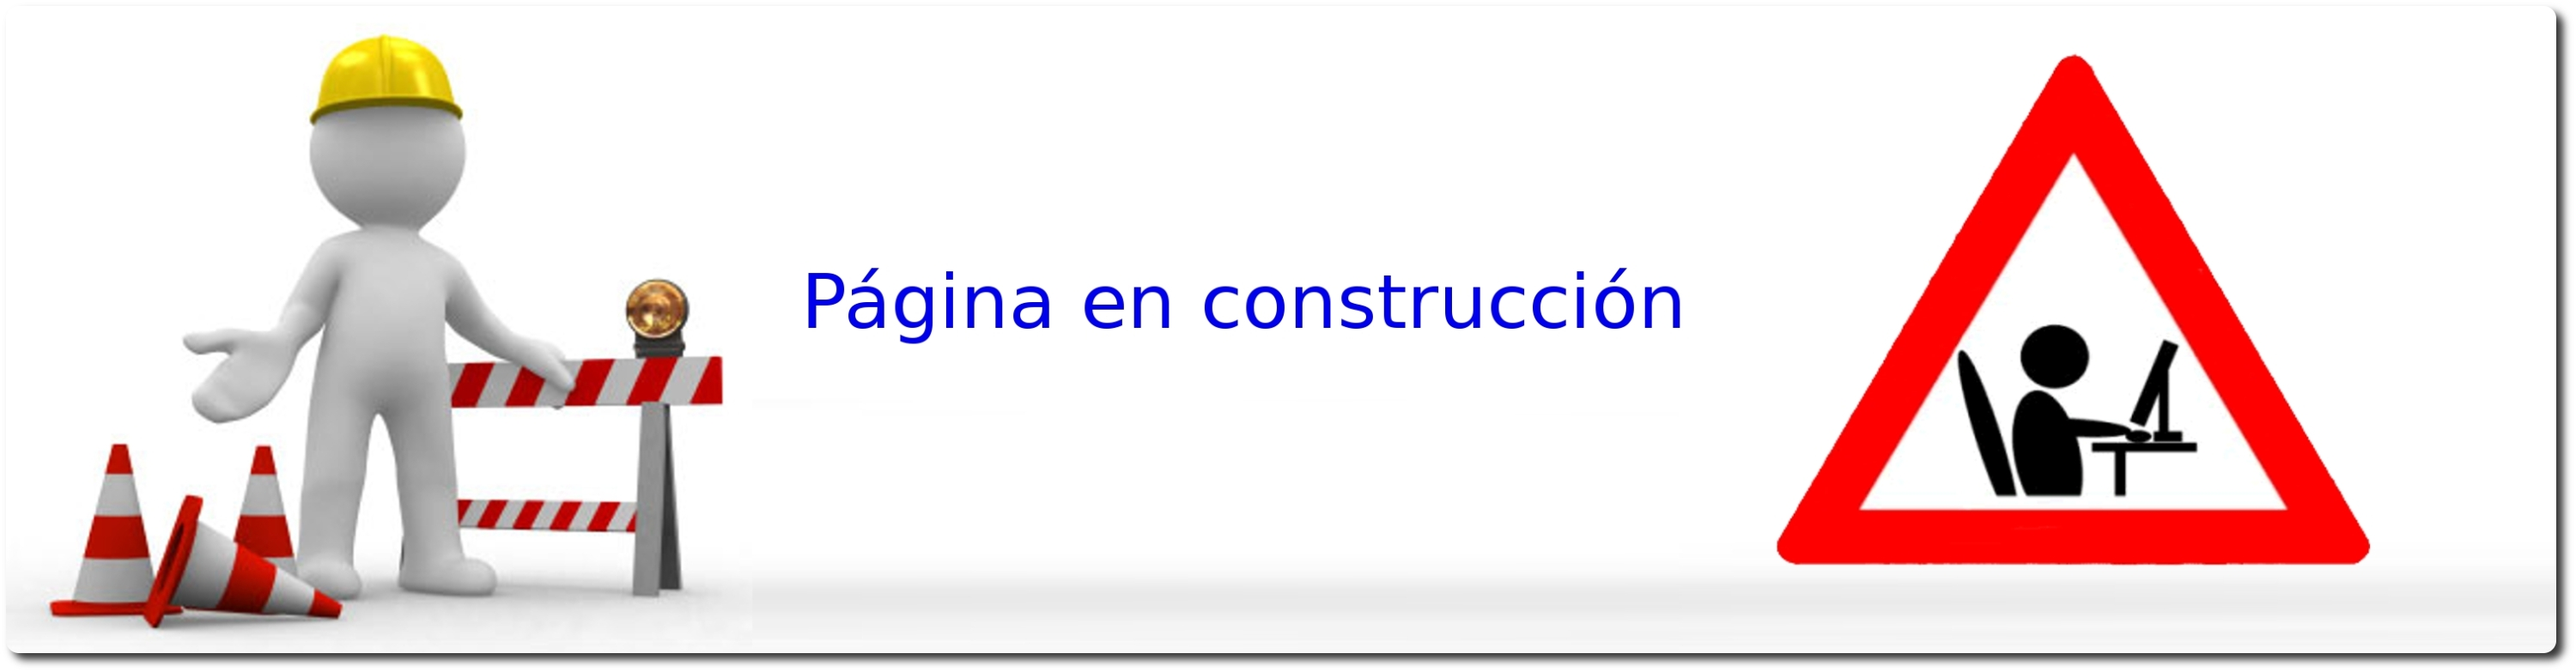
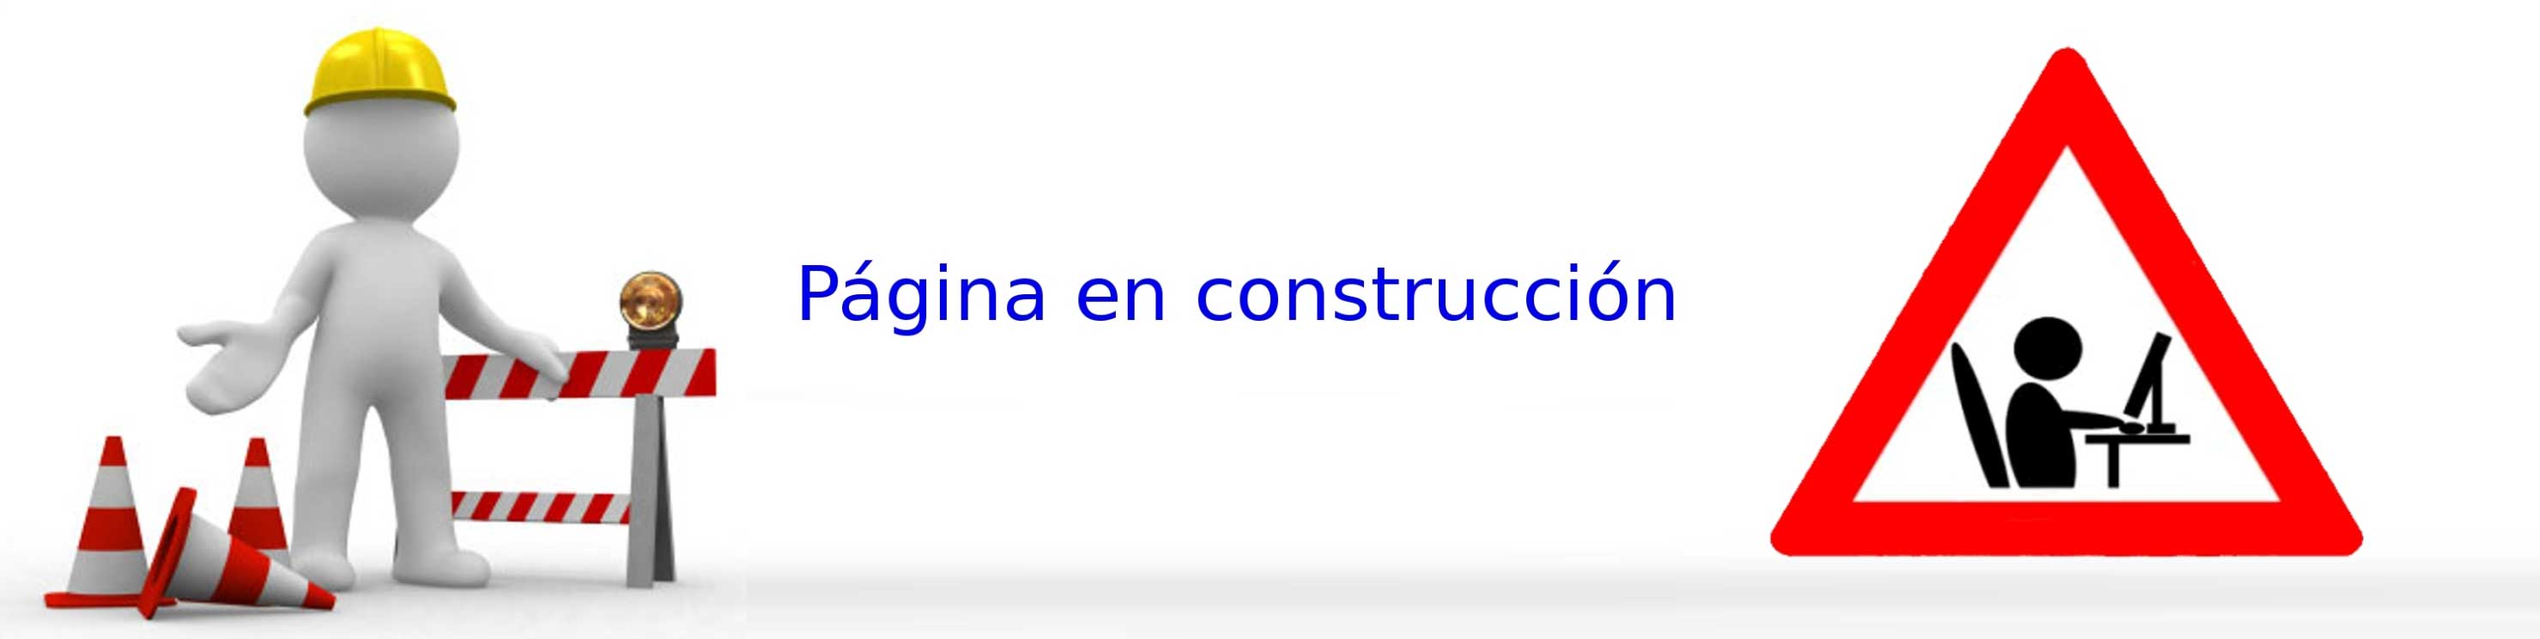
v20161105 - Se añade imagen under construction reescalada

diff --git a/index.html b/index.html
@@ -40,9 +40,10 @@
                     </ul>
                     <ul id="navbar-phones" class="nav navbar-nav navbar-right hidden-xs hidden-sm">
                         <li>
-                            <p>922 546 287</p>
-                            <p>678 279 410</p>
-                            <p>657 095 081</p>
+                            <p><span class="glyphicon glyphicon-earphone"></span>922 546 287</p>
+                            <p><span class="glyphicon glyphicon-phone"></span>678 279 410</p>
+                            <p><span class="glyphicon glyphicon-phone"></span>657 095 081</p>
+                            <p id="navbar-email"><a href="">info@orionaluminios.com</a></p>
                         </li>
                     </ul>
                 </div><!--/.nav-collapse -->

diff --git a/css/styles.css b/css/styles.css
@@ -75,7 +75,16 @@ body {
     }
 
     #navbar-phones li p {
-        font-size: 1.5em;
+        font-size: 1em;
+    }
+
+    #navbar-phones li p span {
+        margin-right: 5px;
+    }
+
+    #navbar-email {
+        font-size: 0.6em !important;
+        font-weight: normal !important;
     }
 }
 
@@ -98,7 +107,17 @@ body {
     }
 
     #navbar-phones li p {
-        font-size: 1.8em;
+        font-size: 1.9em;
+        margin: 0;
+    }
+
+    #navbar-phones li p span {
+        margin-right: 10px;
+    }
+
+    #navbar-email {
+        font-size: 1.2em !important;
+        font-weight: normal !important;
     }
 }
 
@@ -108,7 +127,6 @@ body {
 
 #navbar-phones li p {
     font-weight: bold;
-    margin: 0px;
 }
 
 .jumbotron h2 {

diff --git a/contact.php b/contact.php
@@ -4,7 +4,7 @@
     $phone =$_POST[phone];
     $message =$_POST[message];
 
-    $for =  "mrarmas4@hotmail.com";
+    $for =  "manu@orionaluminios.com";
     $subject = "Mensaje - Contacto www.orionaluminios.com";
     $content = "
     Nombre: ".$name."
